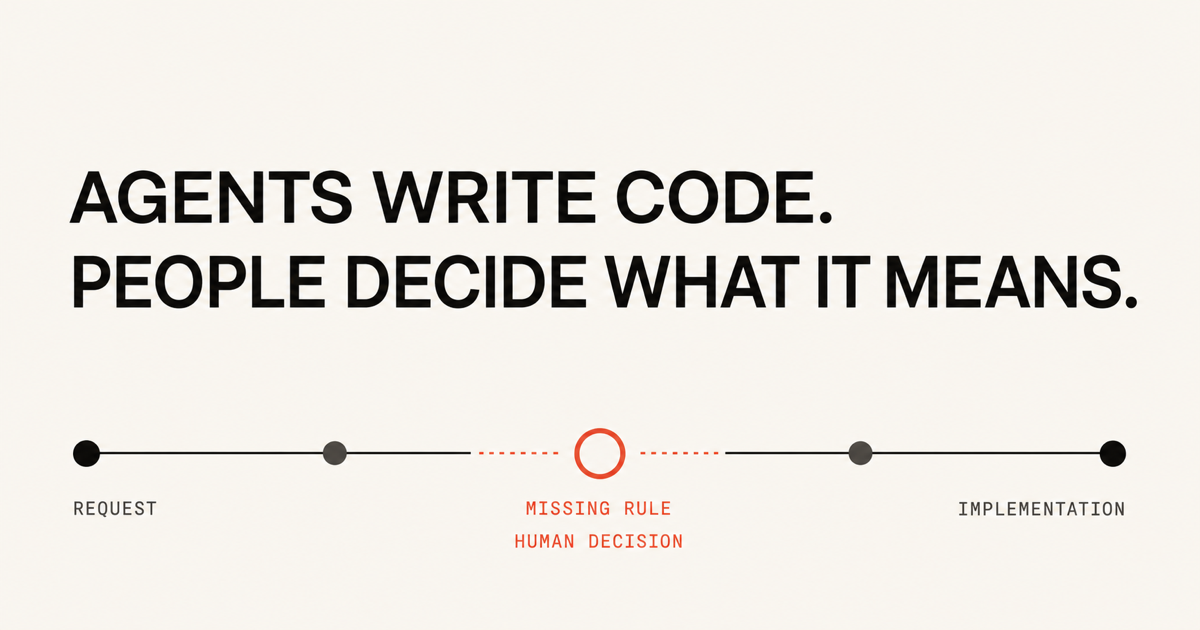
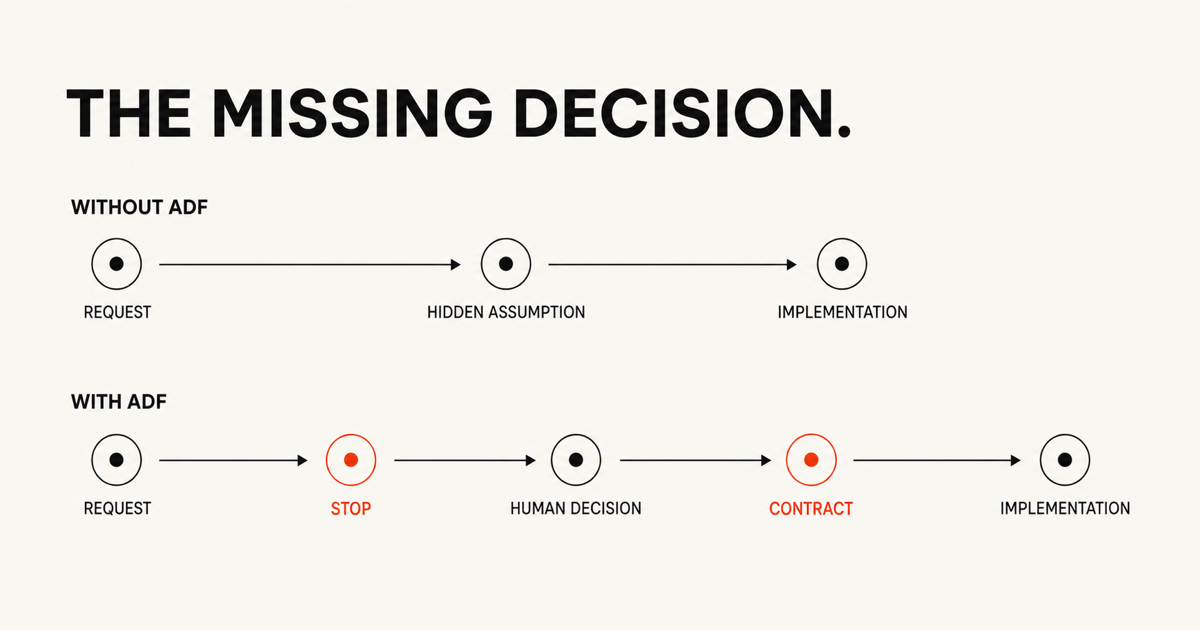
Compare ADF workflows in hero diagram

diff --git a/website/app/globals.css b/website/app/globals.css
@@ -45,15 +45,25 @@ a:focus-visible { outline: 2px solid var(--red); outline-offset: 4px; }
 .scene-question { max-width: 850px; }
 .scene-label { margin: 0 0 20px; color: var(--muted); }
 blockquote { margin: 0; font-size: clamp(38px, 5.2vw, 66px); font-weight: 500; line-height: 1.1; letter-spacing: -.018em; }
-.fork { position: relative; display: grid; grid-template-columns: repeat(4, 1fr); gap: 40px; margin-top: 90px; }
-.fork-line { position: absolute; top: 17px; right: 11%; left: 11%; height: 1px; background: var(--line); }
-.fork-node { position: relative; padding-top: 58px; }
-.fork-node::before { position: absolute; z-index: 1; top: 7px; left: 0; width: 21px; height: 21px; border: 1px solid var(--ink); border-radius: 50%; background: var(--paper); content: ""; }
-.gap-node::before { top: 0; width: 35px; height: 35px; border-color: var(--red); background: var(--red); }
-.answer-node::before { background: var(--ink); }
-.fork-node small { display: block; margin-bottom: 9px; color: var(--muted); font-family: var(--font-mono); font-size: 12px; letter-spacing: .03em; text-transform: uppercase; }
-.fork-node strong { display: block; max-width: 210px; font-size: 15px; font-weight: 560; line-height: 1.35; }
-.gap-node strong { color: var(--red); }
+.flow-comparison { margin-top: 90px; border-top: 1px solid var(--ink); }
+.flow-row { display: grid; grid-template-columns: 180px minmax(0, 1fr); gap: 42px; padding-block: 38px; border-bottom: 1px solid var(--line); }
+.flow-name span { display: block; margin-bottom: 10px; font-family: var(--font-mono); font-size: 15px; font-weight: 650; text-transform: uppercase; }
+.flow-name p { margin: 0; color: var(--muted); font-size: 14px; line-height: 1.55; }
+.without-flow .flow-name span { color: var(--muted); }
+.with-flow .flow-name span { color: var(--red); }
+.flow-track { display: flex; align-items: flex-start; min-width: 0; }
+.flow-step { flex: 1 1 0; min-width: 0; }
+.flow-step i { display: grid; width: 28px; height: 28px; margin-bottom: 18px; place-items: center; border: 1px solid var(--ink); border-radius: 50%; background: var(--paper); font-family: var(--font-mono); font-size: 13px; font-style: normal; font-weight: 700; }
+.flow-step small { display: block; margin-bottom: 8px; color: var(--muted); font-family: var(--font-mono); font-size: 12px; letter-spacing: .03em; line-height: 1.3; text-transform: uppercase; }
+.flow-step strong { display: block; max-width: 180px; font-size: 15px; font-weight: 560; line-height: 1.4; }
+.flow-arrow { flex: 0 0 28px; margin: 5px 12px 0; color: var(--line); font-size: 18px; text-align: center; }
+.assumption-step i { border-style: dashed; color: var(--muted); }
+.assumption-step small, .assumption-step strong { color: var(--muted); }
+.stop-step i { border-color: var(--red); background: var(--red); color: var(--paper); }
+.stop-step small, .stop-step strong { color: var(--red); }
+.decision-step i { background: var(--ink); }
+.contract-step i { border-color: var(--green); background: var(--green); }
+.with-flow .flow-arrow { color: var(--red); }
 .scene-conclusion { display: grid; grid-template-columns: 1fr 1fr; gap: 80px; margin-top: 80px; padding-top: 25px; border-top: 1px solid var(--line); }
 .scene-conclusion p { margin: 0; color: var(--muted); font-size: 16px; line-height: 1.7; }
 .scene-conclusion p:last-child { color: var(--ink); }
@@ -121,8 +131,9 @@ dd { overflow-wrap: anywhere; margin: 8px 0 0; font-family: var(--font-mono); fo
 .footer a:hover { color: var(--red); }
 
 @media (max-width: 900px) {
-  .fork { grid-template-columns: 1fr 1fr; gap: 55px; }
-  .fork-line { display: none; }
+  .flow-row { grid-template-columns: 1fr; gap: 28px; }
+  .flow-track { overflow-x: auto; padding-bottom: 12px; }
+  .flow-step { flex-basis: 150px; min-width: 150px; }
   .principles-inner { grid-template-columns: 70px 1fr; }
   .principle-list { grid-column: 2; margin-top: 30px; }
   .start { grid-template-columns: 1fr; gap: 70px; }
@@ -136,9 +147,14 @@ dd { overflow-wrap: anywhere; margin: 8px 0 0; font-family: var(--font-mono); fo
   .hero h1 { font-size: clamp(50px, 15vw, 70px); line-height: 1.01; letter-spacing: -.02em; }
   .hero-bottom { grid-template-columns: 1fr; gap: 24px; margin-top: 42px; }
   .decision-scene { padding-block: 85px 100px; }
-  .fork { grid-template-columns: 1fr; gap: 32px; margin-top: 65px; }
-  .fork-node { padding: 0 0 0 50px; }
-  .fork-node::before, .gap-node::before { top: 0; left: 0; }
+  .flow-comparison { margin-top: 65px; }
+  .flow-row { padding-block: 30px; }
+  .flow-track { display: grid; grid-template-columns: 34px 1fr; gap: 0 16px; overflow: visible; padding-bottom: 0; }
+  .flow-step { display: grid; grid-column: 1 / -1; grid-template-columns: 34px 1fr; column-gap: 16px; min-width: 0; padding-bottom: 4px; }
+  .flow-step i { grid-row: 1 / 3; width: 28px; height: 28px; margin: 0; }
+  .flow-step small { margin: 0 0 6px; }
+  .flow-step strong { max-width: none; padding-bottom: 20px; }
+  .flow-arrow { grid-column: 1; height: 24px; margin: 0; transform: rotate(90deg); text-align: center; }
   .scene-conclusion { grid-template-columns: 1fr; gap: 24px; margin-top: 55px; }
   .manifesto, .process-intro { grid-template-columns: 1fr; gap: 24px; padding-top: 90px; }
   .contract-examples { margin-top: 65px; margin-bottom: 100px; }

diff --git a/website/app/page.tsx b/website/app/page.tsx
@@ -50,34 +50,80 @@ export default function Home() {
           <blockquote>“Delete the task and its attachments.”</blockquote>
         </div>
 
-        <div className="fork" role="img" aria-label="A request reaches a missing product decision, which must be answered by a person before implementation continues">
-          <div className="fork-line" aria-hidden="true" />
-          <div className="fork-node request-node">
-            <small>Request</small>
-            <strong>Delete task</strong>
+        <div className="flow-comparison" aria-label="How the same request proceeds without and with ADF">
+          <div className="flow-row without-flow">
+            <div className="flow-name">
+              <span>Without ADF</span>
+              <p>The agent silently fills the gap.</p>
+            </div>
+            <div className="flow-track" role="img" aria-label="Without ADF: request, hidden assumption, implementation">
+              <div className="flow-step request-step">
+                <i aria-hidden="true" />
+                <small>Request</small>
+                <strong>Delete task</strong>
+              </div>
+              <span className="flow-arrow" aria-hidden="true">→</span>
+              <div className="flow-step assumption-step">
+                <i aria-hidden="true">?</i>
+                <small>Hidden assumption</small>
+                <strong>Attachments should be deleted</strong>
+              </div>
+              <span className="flow-arrow" aria-hidden="true">→</span>
+              <div className="flow-step implementation-step">
+                <i aria-hidden="true" />
+                <small>Implementation</small>
+                <strong>Code ships with no recorded decision</strong>
+              </div>
+            </div>
           </div>
-          <div className="fork-node gap-node">
-            <small>Missing rule</small>
-            <strong>What happens to attachments?</strong>
-          </div>
-          <div className="fork-node answer-node">
-            <small>Human decision</small>
-            <strong>Delete them with the task</strong>
-          </div>
-          <div className="fork-node code-node">
-            <small>Implementation</small>
-            <strong>Now the agent can build</strong>
+
+          <div className="flow-row with-flow">
+            <div className="flow-name">
+              <span>With ADF</span>
+              <p>The missing rule becomes visible.</p>
+            </div>
+            <div className="flow-track" role="img" aria-label="With ADF: request, stop at missing rule, human decision, contract, implementation">
+              <div className="flow-step request-step">
+                <i aria-hidden="true" />
+                <small>Request</small>
+                <strong>Delete task</strong>
+              </div>
+              <span className="flow-arrow" aria-hidden="true">→</span>
+              <div className="flow-step stop-step">
+                <i aria-hidden="true">!</i>
+                <small>Stop</small>
+                <strong>What happens to attachments?</strong>
+              </div>
+              <span className="flow-arrow" aria-hidden="true">→</span>
+              <div className="flow-step decision-step">
+                <i aria-hidden="true" />
+                <small>Human decision</small>
+                <strong>Delete them with the task</strong>
+              </div>
+              <span className="flow-arrow" aria-hidden="true">→</span>
+              <div className="flow-step contract-step">
+                <i aria-hidden="true" />
+                <small>Contract</small>
+                <strong>Rule and evidence are recorded</strong>
+              </div>
+              <span className="flow-arrow" aria-hidden="true">→</span>
+              <div className="flow-step implementation-step">
+                <i aria-hidden="true" />
+                <small>Implementation</small>
+                <strong>The agent builds against the rule</strong>
+              </div>
+            </div>
           </div>
         </div>
 
         <div className="scene-conclusion">
           <p>
-            Without ADF, the middle step disappears. The agent makes a plausible
-            choice, and a product decision hides inside the diff.
+            Without ADF, the assumption looks like implementation detail. No one
+            reviews it as a product decision, and the next agent may decide differently.
           </p>
           <p>
-            With ADF, the gap stops the work. A person decides. The answer becomes
-            a durable contract with evidence behind it.
+            With ADF, the same gap becomes explicit work. A person decides once;
+            the Contract governs every change that follows.
           </p>
         </div>
       </section>
